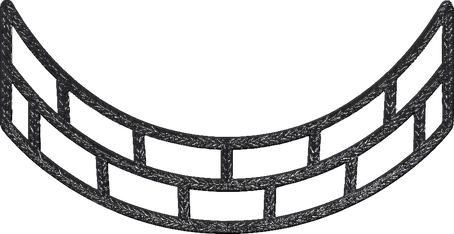
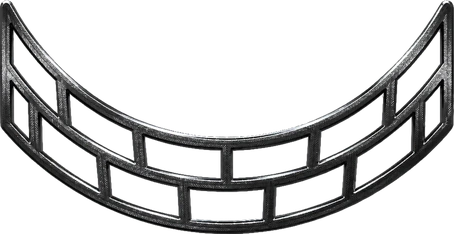
Black panel frame re-generated in Higgsfield as black PVD titanium with relief and highlights

Changed region(s): [[0.0, 0.0, 1.0, 1.0]]

diff --git a/zodiac-duo.js b/zodiac-duo.js
@@ -24,7 +24,7 @@
 
   var SCRIPT_SRC = (document.currentScript && document.currentScript.src) || "";
   var ASSETS = CFG.assets || SCRIPT_SRC.replace(/[^/]*$/, "") + "assets";
-  var AV = "?v=m20"; // версия ассетов (медальоны v2) — сброс кэша слоёв и свотчей
+  var AV = "?v=m21"; // версия ассетов (медальоны v2) — сброс кэша слоёв и свотчей
   var M = window.ZD_MANIFEST;
   // Медальон в конструкторе чуть меньше слоя PSD (масштаб от центра); общий манифест не трогаем — лендинг видит исходный размер
   var MEDAL_SCALE = 0.9;

diff --git a/index.html b/index.html
@@ -249,7 +249,7 @@
     };
   </script>
   <script src="assets/manifest.js?v=20261011r"></script>
-  <script src="zodiac-duo.js?v=20261015bk"></script>
+  <script src="zodiac-duo.js?v=20261015bk2"></script>
   <script src="landing/landing.js?v=20"></script>
   <script type="importmap">
     { "imports": {

diff --git a/demo.html b/demo.html
@@ -40,6 +40,6 @@
     };
   </script>
   <script src="assets/manifest.js?v=20261011r"></script>
-  <script src="zodiac-duo.js?v=20261015bk"></script>
+  <script src="zodiac-duo.js?v=20261015bk2"></script>
 </body>
 </html>
